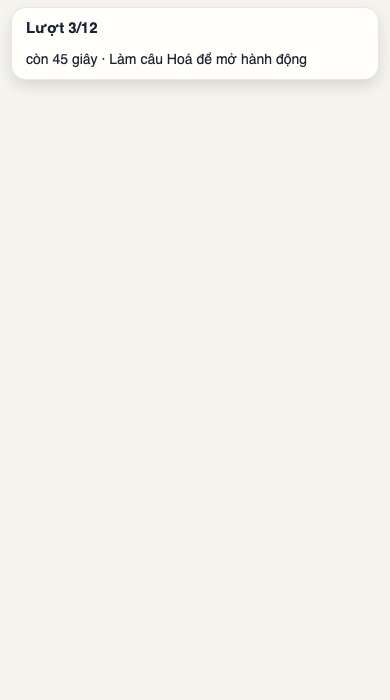
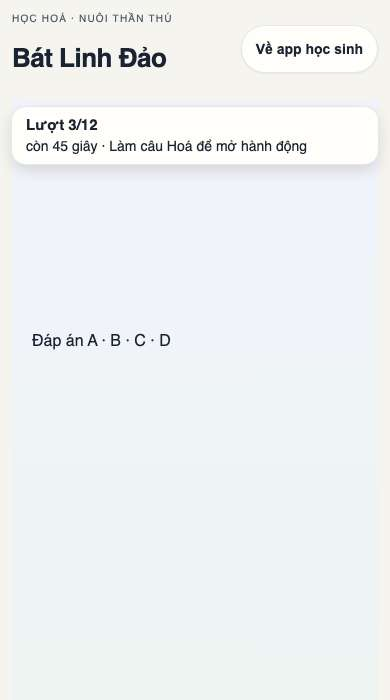
Võ đài HUD · SỬA theo Boss: dòng 'Lượt n/12' dính NGAY DƯỚI đầu trang game cũ (sticky z 40) thay vì chui dưới nó. dau-trang-cao.ts đo chiều cao thật .spirit-header → --spirit-dau-cao (ResizeObserver), top = biến + 8px, z-index vẫn 8, đầu trang không đổi. Bộ thử Chromium dựng đủ vỏ Game.tsx + game.cs

diff --git a/tests/vo-dai-hud-luot-2109.test.ts b/tests/vo-dai-hud-luot-2109.test.ts
@@ -5,10 +5,13 @@ import { afterAll, beforeAll, describe, expect, it } from 'vitest'
 import { chromium, type Browser } from 'playwright'
 import fs from 'node:fs'
 import path from 'node:path'
+import ts from 'typescript'
 
 const doc = (p: string) => fs.readFileSync(path.join(process.cwd(), p), 'utf8')
 const CSS = ['src/styles/tokens.css', 'src/index.css', 'src/game/than-thu-v2/game.css', 'src/game/than-thu-v2/escort.css'].map((f) => doc(f).replace(/@import[^;]*;/g, '')).join('\n')
 const ESCORT = doc('src/game/than-thu-v2/EscortRoom.tsx')
+// Chính tệp đo đầu trang (thuần DOM) chạy trong Chromium, không viết lại bản khác.
+const DTC = `(function(){var exports={};${ts.transpileModule(doc('src/game/than-thu-v2/dau-trang-cao.ts'), { compilerOptions: { module: ts.ModuleKind.CommonJS, target: ts.ScriptTarget.ES2020 } }).outputText};window.DTC=exports})()`
 
 describe('khoá nguồn', () => {
   it('CHỈ dòng "Lượt {room.round}/12" mang lớp ghim escort-hud-luot; dòng đầu phòng KHÔNG ghim; bản đồ KHÔNG ghim', () => {
@@ -18,9 +21,16 @@ describe('khoá nguồn', () => {
     const css = doc('src/game/than-thu-v2/escort.css')
     const hud = /\.escort-hud-luot\{([^}]*)\}/.exec(css)![1]!
     expect(hud).toMatch(/position:sticky/)
-    expect(hud).toMatch(/top:max\(8px,env\(safe-area-inset-top,0px\)\)/)
-    expect(hud).toMatch(/z-index:8/)
+    expect(hud).toMatch(/top:calc\(var\(--spirit-dau-cao,env\(safe-area-inset-top,0px\)\) \+ 8px\)/) // NGAY DƯỚI đầu trang game cũ (Boss 18:0x: top:8px chui dưới đầu trang z-index 40)
+    expect(hud).toMatch(/z-index:8/) // < 40 của đầu trang: KHÔNG được đè nút "Về app học sinh"
     expect(hud).toMatch(/background:var\(--the\)/) // nền ĐẶC
+    // đầu trang game cũ: KHÔNG đổi (nút rào "Về app học sinh")
+    const game = doc('src/game/than-thu-v2/game.css')
+    expect(/\.spirit-game>\.spirit-header\{([^}]*)\}/.exec(game)![1]).toMatch(/position:sticky;top:0;z-index:40/)
+    // dây nối: vỏ Võ đài đo đầu trang thật
+    expect(ESCORT).toMatch(/import \{ganDauTrangCao\} from '\.\/dau-trang-cao'/)
+    expect(ESCORT).toMatch(/useEffect\(\(\)=>ganDauTrangCao\(vo\.current\),\[active\]\)/)
+    expect((ESCORT.match(/ref=\{vo\} className=\{`escort-shell /g) ?? []).length).toBe(1)
     expect(css).not.toMatch(/\.escort-map\{[^}]*position:sticky/)
     expect(css.replace(/\/\*[\s\S]*?\*\//g, '')).not.toMatch(/#[0-9a-fA-F]{3,8}\b[^;}]*(?=[^}]*escort-hud-luot)/)
   })
@@ -38,58 +48,138 @@ afterAll(async () => {
   await browser?.close()
 })
 
-// Vỏ ĐÚNG như StudentPortalScreen (fixed inset-0 · overflow-y auto · animate-google-fade) chứa `.spirit-game` → `.escort-shell` như Game.tsx / EscortRoom.tsx thật.
-const trang = `<!doctype html><html lang="vi"><head><meta name="viewport" content="width=device-width,initial-scale=1"><style>html,body{margin:0}${CSS}</style></head><body>
+// Vỏ ĐÚNG như app thật: StudentPortalScreen (fixed inset-0 · overflow-y auto · animate-google-fade) chứa `section.spirit-game` với ĐẦU TRANG game cũ + thanh mục (Game.tsx:85,90 — tab Võ đài KHÔNG phải vỏ Đảo) rồi `div > .escort-shell` như EscortRoom.tsx; game.css/escort.css THẬT.
+const trang = (gan: boolean) => `<!doctype html><html lang="vi"><head><meta name="viewport" content="width=device-width,initial-scale=1"><style>html,body{margin:0}${CSS}</style></head><body>
 <div id="vo" class="animate-google-fade" style="position:fixed;inset:0;overflow-y:auto;display:flex;flex-direction:column;z-index:50;background:#fff">
- <section class="spirit-game"><div class="escort-shell">
-  <header class="escort-title"><div><small>TỰ LUYỆN VÀ ĐỒNG ĐỘI</small><h2>Hộ tống Linh Tâm</h2></div></header>
-  <div class="escort-hud" id="dau-phong"><strong>2 đấu 2 · Phòng ABC</strong><span>Đội Lam 0 : 1 Đội Hồng</span><button>Tải lại phòng</button><button>Rời phòng</button></div>
-  <div class="escort-hud escort-hud-luot" id="hud" data-vung="hud-luot"><strong>Lượt 3/12</strong><span>còn 45 giây · Làm câu Hoá để mở hành động</span></div>
-  <div class="escort-map" id="ban-do" style="height:250px">bản đồ 7×5</div>
-  <div id="cau" style="height:1600px">câu Hoá dài</div>
-  <div id="cuoi" style="height:80px">hành động</div>
- </div></section></div></body></html>`
+ <section class="spirit-game" aria-label="Thần Thú Hoá Học">
+  <header class="spirit-header"><div><small>HỌC HOÁ · NUÔI THẦN THÚ</small><h1>Bát Linh Đảo</h1></div><button id="ve-app" onclick="window.__bam=(window.__bam||0)+1">Về app học sinh</button></header>
+  <nav class="spirit-nav" aria-label="Mục game"><button>Học</button><button>Đảo</button><button aria-current="page">Võ đài</button><button>Đoàn</button></nav>
+  <div><div class="escort-shell" id="shell">
+   <header class="escort-title"><div><small>TỰ LUYỆN VÀ ĐỒNG ĐỘI</small><h2>Hộ tống Linh Tâm</h2></div></header>
+   <div class="escort-hud" id="dau-phong"><strong>2 đấu 2 · Phòng ABC</strong><span>Đội Lam 0 : 1 Đội Hồng</span><button>Tải lại phòng</button><button>Rời phòng</button></div>
+   <div class="escort-hud escort-hud-luot" id="hud" data-vung="hud-luot"><strong>Lượt 3/12</strong><span>còn 45 giây · Làm câu Hoá để mở hành động</span></div>
+   <div class="escort-map" id="ban-do" style="height:250px">bản đồ 7×5</div>
+   <div id="cau" style="height:1600px">câu Hoá dài</div>
+   <div id="cuoi" style="height:80px">hành động</div>
+  </div></div>
+ </section></div>${gan ? `<script>${DTC};window.__go = window.DTC.ganDauTrangCao(document.getElementById('shell'))</script>` : ''}</body></html>`
 
-for (const [w, h] of [[390, 700], [360, 640]] as const)
-  it(`Chromium thật ${w}×${h}: cuộn xuống câu ⇒ dòng "Lượt n/12 · còn N giây" DÍNH mép trên (8 px), nền đặc; dòng đầu phòng + bản đồ cuộn đi; chưa cuộn thì nằm đúng chỗ trong dòng chảy`, async () => {
+const doTrang = () => {
+  const r = (id: string) => document.getElementById(id)!.getBoundingClientRect()
+  const dau = document.querySelector('.spirit-header')!.getBoundingClientRect()
+  const hud = r('hud')
+  const tam = (b: DOMRect) => document.elementFromPoint(b.left + b.width / 2, b.top + b.height / 2)
+  const nut = r('ve-app')
+  const gaoNhau = hud.left < dau.right && hud.right > dau.left && hud.top < dau.bottom && hud.bottom > dau.top
+  return {
+    dauTop: Math.round(dau.top), dauDay: Math.round(dau.bottom), hudTop: Math.round(hud.top), hudDay: Math.round(hud.bottom),
+    gaoNhau,
+    tamHud: !!tam(hud)?.closest('#hud'), tamNut: tam(nut)?.id === 've-app',
+    cao: getComputedStyle(document.getElementById('shell')!).getPropertyValue('--spirit-dau-cao').trim(),
+    bg: getComputedStyle(document.getElementById('hud')!).backgroundColor,
+    banDoDay: Math.round(r('ban-do').bottom), dauPhongDay: Math.round(r('dau-phong').bottom),
+  }
+}
+
+for (const [w, h] of [[390, 700], [360, 640], [320, 568]] as const)
+  it(`Chromium thật ${w}×${h}, ĐỦ VỎ Game.tsx (đầu trang sticky z 40 + thanh mục): cuộn 900 px ⇒ dòng "Lượt n/12 · còn N giây" dính NGAY DƯỚI đầu trang (cách 8 px), KHÔNG giao nhau, bấm giữa dòng trúng chính nó, nút "Về app học sinh" vẫn bấm được; nền đặc; chưa cuộn thì nằm đúng chỗ trong dòng chảy`, async () => {
     if (!browser) return
     const page = await browser.newPage({ viewport: { width: w, height: h } })
-    await page.setContent(trang)
+    await page.setContent(trang(true))
     await page.waitForTimeout(450)
-    const o = await page.evaluate(() => {
-      const v = document.getElementById('vo')!
-      const r = (id: string) => document.getElementById(id)!.getBoundingClientRect()
-      const dau = { hud: Math.round(r('hud').top), banDo: Math.round(r('ban-do').top) }
-      const bg = getComputedStyle(document.getElementById('hud')!).backgroundColor
-      v.scrollTop = 900
-      const giua = { hud: Math.round(r('hud').top), hudDay: Math.round(r('hud').bottom), banDo: Math.round(r('ban-do').bottom), dauPhong: Math.round(r('dau-phong').bottom) }
-      v.scrollTop = v.scrollHeight
-      const cuoi = { hud: Math.round(r('hud').top), hudDay: Math.round(r('hud').bottom), cuoi: Math.round(r('cuoi').bottom), ih: innerHeight }
-      return { dau, giua, cuoi, bg }
-    })
+    const dau = await page.evaluate(doTrang)
+    await page.evaluate(() => { document.getElementById('vo')!.scrollTop = 900 })
+    const giua = await page.evaluate(doTrang)
+    await page.click('#ve-app')
+    const bam = await page.evaluate(() => (window as unknown as { __bam?: number }).__bam)
+    await page.evaluate(() => { const v = document.getElementById('vo')!; v.scrollTop = v.scrollHeight })
+    const cuoi = await page.evaluate(doTrang)
+    const cuoiNd = await page.evaluate(() => ({ cuoi: Math.round(document.getElementById('cuoi')!.getBoundingClientRect().bottom), ih: innerHeight }))
     await page.close()
-    expect(o.dau.hud).toBeGreaterThan(8) // đầu trang: chưa dính, còn nằm sau tiêu đề + dòng đầu phòng
-    expect(o.dau.banDo).toBeGreaterThan(o.dau.hud) // bản đồ nằm dưới dòng lượt
-    expect(o.giua.hud).toBe(8) // cuộn 900 px (quá bản đồ): dòng lượt dính đúng mép trên
-    expect(o.giua.hudDay).toBeLessThan(80) // dòng thấp (1–2 hàng chữ), không phải khối cao
-    expect(o.giua.banDo).toBeLessThan(0) // bản đồ đã cuộn khỏi màn — KHÔNG ghim
-    expect(o.giua.dauPhong).toBeLessThan(0) // dòng đầu phòng cũng cuộn đi
-    expect(o.cuoi.hud).toBe(8) // cuối trang vẫn dính
-    expect(o.cuoi.cuoi).toBeLessThanOrEqual(o.cuoi.ih) // nội dung cuối vẫn cuộn tới hết
-    const m = /rgba?\((\d+),\s*(\d+),\s*(\d+)(?:,\s*([\d.]+))?\)/.exec(o.bg)!
-    expect(m[4] === undefined || Number(m[4]) === 1, `nền phải đặc: ${o.bg}`).toBe(true)
+    expect(dau.hudTop).toBeGreaterThan(dau.dauDay) // chưa cuộn: nằm sau tiêu đề + dòng đầu phòng
+    expect(giua.cao).toBe(`${giua.dauDay}px`) // biến = chiều cao THẬT của đầu trang (làm tròn lên)
+    expect(giua.dauTop).toBe(0) // đầu trang dính mép trên
+    expect(giua.hudTop).toBe(giua.dauDay + 8) // dòng lượt NGAY DƯỚI đầu trang, cách 8 px
+    expect(giua.gaoNhau).toBe(false)
+    expect(giua.tamHud, 'tâm dòng lượt phải trúng chính dòng lượt (không bị đầu trang đè)').toBe(true)
+    expect(giua.tamNut, 'nút Về app học sinh phải bấm được').toBe(true)
+    expect(bam).toBe(1)
+    expect(giua.hudDay - giua.hudTop).toBeLessThan(80) // dòng thấp
+    expect(giua.banDoDay).toBeLessThan(giua.dauDay) // bản đồ đã cuộn khỏi màn — KHÔNG ghim
+    expect(giua.dauPhongDay).toBeLessThan(giua.dauDay) // dòng đầu phòng cũng cuộn đi
+    expect(cuoi.hudTop).toBe(cuoi.dauDay + 8) // cuối trang vẫn dính dưới đầu trang
+    expect(cuoi.gaoNhau).toBe(false)
+    expect(cuoiNd.cuoi).toBeLessThanOrEqual(cuoiNd.ih) // nội dung cuối vẫn cuộn tới hết
+    const m = /rgba?\((\d+),\s*(\d+),\s*(\d+)(?:,\s*([\d.]+))?\)/.exec(giua.bg)!
+    expect(m[4] === undefined || Number(m[4]) === 1, `nền phải đặc: ${giua.bg}`).toBe(true)
   }, 30000)
 
-it('ĐỐI CHỨNG: bỏ position:sticky thì dòng lượt TRÔI theo nội dung (test này phải thấy lỗi để khoá trên có nghĩa)', async () => {
+it('ĐẦU TRANG ĐỔI CỠ (cửa sổ hẹp lại ⇒ chữ xuống dòng; đổi cỡ chữ đầu trang): biến đo lại theo, dòng lượt vẫn dưới đầu trang, không giao nhau', async () => {
   if (!browser) return
-  const cu = trang.replace('.escort-hud-luot{position:sticky;', '.escort-hud-luot{position:relative;')
-  expect(cu).not.toBe(trang)
+  const page = await browser.newPage({ viewport: { width: 390, height: 700 } })
+  await page.setContent(trang(true))
+  await page.waitForTimeout(300)
+  await page.evaluate(() => { document.getElementById('vo')!.scrollTop = 900 })
+  const a = await page.evaluate(doTrang)
+  // đầu trang cao hơn (tiêu đề dài xuống dòng + cỡ chữ lớn) — không đổi cỡ cửa sổ, chỉ ResizeObserver mới biết
+  await page.evaluate(() => { const h = document.querySelector('.spirit-header h1') as HTMLElement; h.textContent = 'Bát Linh Đảo — Đại Hội Hoá Học Thần Thú Toàn Trường'; h.style.fontSize = '40px' })
+  await page.waitForTimeout(250)
+  const b = await page.evaluate(doTrang)
+  await page.close()
+  expect(b.dauDay).toBeGreaterThan(a.dauDay + 20)
+  expect(b.cao).toBe(`${b.dauDay}px`)
+  expect(b.hudTop).toBe(b.dauDay + 8)
+  expect(b.gaoNhau).toBe(false)
+  expect(b.tamHud).toBe(true)
+}, 30000)
+
+it('GỠ + KHÔNG CÓ ĐẦU TRANG: hàm gỡ trả biến về rỗng; đầu trang biến mất (vỏ Đảo / trang thử) rồi cửa sổ đổi cỡ ⇒ biến được GỠ (CSS lùi về vùng an toàn); truyền rỗng ⇒ không làm gì', async () => {
+  if (!browser) return
+  type W = { DTC: { ganDauTrangCao: (e: HTMLElement | null) => () => void }; __go: () => void }
+  const dat = () => (document.getElementById('shell') as HTMLElement).style.getPropertyValue('--spirit-dau-cao')
+  const page = await browser.newPage({ viewport: { width: 390, height: 700 } })
+  await page.setContent(trang(true))
+  await page.waitForTimeout(200)
+  const co = await page.evaluate(dat)
+  await page.evaluate(() => (window as unknown as W).__go()) // gỡ
+  const sau = await page.evaluate(dat)
+  // ngoài đường gỡ: dựng lại có đầu trang, rồi đầu trang mất + cửa sổ đổi cỡ
+  await page.setContent(trang(true))
+  await page.waitForTimeout(200)
+  const lai = await page.evaluate(dat)
+  await page.evaluate(() => { document.querySelector('.spirit-header')!.remove(); window.dispatchEvent(new Event('resize')) })
+  const khong = await page.evaluate(dat)
+  const nullOk = await page.evaluate(() => typeof (window as unknown as W).DTC.ganDauTrangCao(null))
+  await page.close()
+  expect(co).toMatch(/^\d+px$/)
+  expect(sau).toBe('')
+  expect(lai).toMatch(/^\d+px$/)
+  expect(khong).toBe('')
+  expect(nullOk).toBe('function')
+}, 30000)
+
+it('ĐỐI CHỨNG 1 — lỗi Boss bắt (18:0x): KHÔNG đo đầu trang (top cũ 8 px) thì dòng lượt CHUI DƯỚI đầu trang: giao nhau và tâm dòng trúng đầu trang (test trên phải thấy lỗi này thì khoá mới có nghĩa)', async () => {
+  if (!browser) return
+  const page = await browser.newPage({ viewport: { width: 390, height: 700 } })
+  await page.setContent(trang(false).replace(/top:calc\(var\(--spirit-dau-cao,env\(safe-area-inset-top,0px\)\) \+ 8px\)/, 'top:8px'))
+  await page.waitForTimeout(450)
+  await page.evaluate(() => { document.getElementById('vo')!.scrollTop = 900 })
+  const o = await page.evaluate(doTrang)
+  await page.close()
+  expect(o.hudTop).toBe(8)
+  expect(o.gaoNhau).toBe(true)
+  expect(o.tamHud).toBe(false)
+}, 30000)
+
+it('ĐỐI CHỨNG 2: bỏ position:sticky thì dòng lượt TRÔI theo nội dung', async () => {
+  if (!browser) return
+  const cu = trang(true).replace('.escort-hud-luot{position:sticky;', '.escort-hud-luot{position:relative;')
+  expect(cu).not.toBe(trang(true))
   const page = await browser.newPage({ viewport: { width: 390, height: 700 } })
   await page.setContent(cu)
   await page.waitForTimeout(450)
   const top = await page.evaluate(() => {
-    const v = document.getElementById('vo')!
-    v.scrollTop = 900
+    document.getElementById('vo')!.scrollTop = 900
     return Math.round(document.getElementById('hud')!.getBoundingClientRect().top)
   })
   await page.close()

diff --git a/src/game/than-thu-v2/escort.css b/src/game/than-thu-v2/escort.css
@@ -11,7 +11,7 @@
 /* Shared terrain on both sides: decoration never changes movement rules. */
 .escort-map{gap:9px;padding:18px 14px 24px;border:1px solid #728caf80;border-bottom:10px solid #172a42;background:radial-gradient(ellipse at 50% 40%,#407388,#13273c 78%);box-shadow:0 18px 30px #08111d66,inset 0 2px #bddef733;isolation:isolate}.escort-cell>.escort-tile{border-radius:12px;border:1px solid #d0ecff40;border-bottom:5px solid #173348;box-shadow:0 5px 0 #091a2f66,inset 0 2px #ffffff30;transform:perspective(500px) rotateX(7deg);transition:filter .18s,box-shadow .18s}.escort-cell.terrain-forest>.escort-tile{background:linear-gradient(145deg,#538361,#244c44);border-bottom-color:#18362f}.escort-cell.terrain-ocean>.escort-tile{background:linear-gradient(145deg,#2d8196,#24506f);border-bottom-color:#153b55}.escort-cell.terrain-dune>.escort-tile{background:linear-gradient(145deg,#cba775,#9a774d);border-bottom-color:#624e37}.escort-cell.terrain-tower>.escort-tile{background:radial-gradient(ellipse,#7287ab,#384b6c);border-bottom-color:#28364f}.escort-terrain-art{position:absolute;inset:0;overflow:hidden;opacity:.65;border-radius:10px;pointer-events:none}.escort-terrain-art svg{width:100%;height:100%}.terrain-ocean .escort-terrain-art svg{animation:escort-sea 4s ease-in-out infinite alternate}.escort-center-tower{position:absolute;width:78%;height:115%;bottom:9%;left:11%;filter:drop-shadow(0 8px 6px #06122280);pointer-events:none;z-index:2}.escort-center-tower svg{width:100%;height:100%}.board-heart.on-tower{width:59%;left:20%;top:-43%;z-index:5;filter:drop-shadow(0 0 15px #ffd3f4)}.escort-piece{z-index:6;filter:drop-shadow(0 7px 4px #0a172755)}.escort-tile.tile-selected{filter:brightness(1.15);box-shadow:0 0 20px #facc1566!important}.escort-cell>.escort-tile.base-blue{border-left:3px solid #7dc8ff}.escort-cell>.escort-tile.base-pink{border-right:3px solid #ffabd5}.escort-effects{z-index:9}.escort-cell.cell-active{z-index:30}.escort-speech{z-index:12}@keyframes escort-sea{to{transform:translateX(4px) translateY(-2px);opacity:.65}}@media(max-width:600px){.escort-map{gap:5px;padding:12px 7px 16px}.escort-cell>.escort-tile{border-radius:7px;border-bottom-width:3px}.escort-terrain-art{border-radius:6px}}@media(prefers-reduced-motion:reduce){.terrain-ocean .escort-terrain-art svg{animation:none}}
 .spirit-game .escort-cell-menu .escort-action-icon{display:grid;place-items:center;width:46px;height:46px;padding:0;border-radius:14px;background:#8abcff22;color:#c1e2ff;border:1px solid #b8d8ff50}.spirit-game .escort-cell-menu .action-guard{color:#a1f0cf;background:#4dd5a322}.spirit-game .escort-cell-menu .action-blast{color:#ffdb85;background:#efbc3c22}.spirit-game .escort-cell-menu .action-skill{color:#dbbaff;background:#ad75ed22}.spirit-game .escort-cell-menu .escort-menu-close{color:#e2edff;padding:5px;width:30px;min-width:30px;min-height:30px;height:30px;flex-shrink:0;border:0}.spirit-game .escort-cell-menu .escort-confirm-action{background:#a8d8ff;color:#132940}.escort-cell-menu svg{flex-shrink:0;stroke:currentColor}
-/* VÕ ĐÀI · GHIM dòng "Lượt n/12 · còn N giây" (đề xuất của tôi ở sổ 21/09, Boss xếp việc kế): KHÔNG ghim cả bản đồ 7×5 (~250 px, chiếm 1/3 màn) — chỉ dòng giờ + lượt dính mép trên vùng cuộn của vỏ sheet, nền ĐẶC để câu / bản đồ cuộn qua không lộ chữ. Không tổ tiên overflow:hidden (test khoá). */
-.escort-hud-luot{position:sticky;top:max(8px,env(safe-area-inset-top,0px));z-index:8;padding:10px 14px;margin:0 0 8px;border-radius:14px;background:var(--the);color:var(--muc);box-shadow:0 0 0 1px var(--vien),0 6px 16px rgba(0,0,0,.14);font-size:14px;line-height:1.35}
+/* VÕ ĐÀI · GHIM dòng "Lượt n/12 · còn N giây" (đề xuất của tôi ở sổ 21/09, Boss xếp việc kế): KHÔNG ghim cả bản đồ 7×5 (~250 px, chiếm 1/3 màn) — chỉ dòng giờ + lượt dính NGAY DƯỚI đầu trang game cũ (sticky top:0 z-index:40 — biến --spirit-dau-cao do dau-trang-cao.ts đo thật; không có đầu trang thì dính dưới vùng an toàn), nền ĐẶC để câu / bản đồ cuộn qua không lộ chữ. Không tổ tiên overflow:hidden (test khoá). */
+.escort-hud-luot{position:sticky;top:calc(var(--spirit-dau-cao,env(safe-area-inset-top,0px)) + 8px);z-index:8;gap:2px 12px;padding:8px 14px;margin:0 0 8px;border-radius:14px;background:var(--the);color:var(--muc);box-shadow:0 0 0 1px var(--vien),0 6px 16px rgba(0,0,0,.14);font-size:14px;line-height:1.35}
 .escort-hud-luot strong{font-size:15px;font-variant-numeric:tabular-nums}
 .escort-hud-luot span{font-variant-numeric:tabular-nums;min-width:0;overflow-wrap:anywhere}

diff --git a/src/game/than-thu-v2/EscortRoom.tsx b/src/game/than-thu-v2/EscortRoom.tsx
@@ -2,6 +2,7 @@ import {MoveUpRight,Shield,Zap,Sparkles,X,Check,BookOpen,Swords,ChevronUp,Chevro
 import EscortQuestion from './EscortQuestion'
 import LinhTam from './LinhTam'
 import {useCallback,useEffect,useRef,useState} from 'react'
+import {ganDauTrangCao} from './dau-trang-cao'
 import SpiritArt from './SpiritArt'
 import EscortGuide from './EscortGuide'
 import Spirit2D from './Spirit2D'
@@ -12,6 +13,8 @@ import {unlockBattleAudio,playBattleSound,battleMuted,setBattleMuted} from './ba
 import {evolutionStage} from './evolution'
 type View=Omit<Escort,'owner'|'players'>&{id:string;revision:number;owner:boolean;players:(Escort['players'][number]&{self:boolean;ready:boolean;alias:string})[]}
 export default function EscortRoom({call,active,storageKey}:{call:(action:string,data:Record<string,unknown>)=>Promise<unknown>;active:boolean;storageKey:string}){
+ const vo=useRef<HTMLDivElement>(null)
+ useEffect(()=>ganDauTrangCao(vo.current),[active]) // dòng lượt dính NGAY DƯỚI đầu trang game cũ (đo thật)
  const [pvpMode,setPvpMode]=useState<'duel'|'pvp'>('pvp')
  const [actionInfo,setActionInfo]=useState<Command['type']>()
  const [answerState,setAnswerState]=useState<{round:number;room:string;energy:number}>()
@@ -49,7 +52,7 @@ export default function EscortRoom({call,active,storageKey}:{call:(action:string
  const actionItems=[{type:'move' as const,Icon:MoveUpRight,label:'Di chuyển',description:'Đi tới ô trống liền kề đã chọn. Không tốn năng lượng.'},{type:'guard' as const,Icon:Shield,label:'Dựng khiên',description:'Đứng tại chỗ: đúng tự làm nhận 20 giáp; sai hoặc có trợ giúp nhận 5 giáp.'},{type:'blast' as const,Icon:Zap,label:'Tung chưởng',description:'Tấn công đối thủ được chọn trong phạm vi 3 ô.'},{type:'skill' as const,Icon:Sparkles,label:SKILLS[me?.pet??0],description:'Thi triển kỹ năng riêng của thần thú tại mục tiêu phù hợp.'}]
  const act=(type:Command['type'])=>{if(valid(type))void go('escort-act',{command:{type,...selected,target}})}
  const remaining=room?Math.max(0,Math.ceil((Math.min(room.roundAt+60000,room.deadline)-now)/1000)):0
- return <div className={`escort-shell ${!room?'escort-lobby':''}`}><header className="escort-title"><div><small>{room?.mode==='solo'?'TỰ LUYỆN · ĐẤU VỚI QUÁI TRÙM':'TỰ LUYỆN VÀ ĐỒNG ĐỘI'}</small><h2>Hộ Tống Linh Tâm</h2><p>Hiểu bài để tiếp sức. Phối hợp để đưa Linh Tâm về nhà.</p></div><LinhTam className="escort-heart"/></header>
+ return <div ref={vo} className={`escort-shell ${!room?'escort-lobby':''}`}><header className="escort-title"><div><small>{room?.mode==='solo'?'TỰ LUYỆN · ĐẤU VỚI QUÁI TRÙM':'TỰ LUYỆN VÀ ĐỒNG ĐỘI'}</small><h2>Hộ Tống Linh Tâm</h2><p>Hiểu bài để tiếp sức. Phối hợp để đưa Linh Tâm về nhà.</p></div><LinhTam className="escort-heart"/></header>
  <div style={{display:'flex',alignItems:'center',gap:8,flexWrap:'wrap',margin:'8px 0 12px 0'}}>
    <button aria-pressed={!muted} onClick={()=>{setBattleMuted(!muted);setMuted(!muted)}}>{muted?'Bật âm thanh võ đài':'Tắt âm thanh võ đài'}</button>
    {!room&&<button type="button" onClick={()=>setShowGuide(v=>!v)} style={{padding:'7px 14px',borderRadius:12,border:'1px solid var(--vien)',background:showGuide?'var(--xanh-nen)':'var(--the)',color:showGuide?'var(--xanh)':'var(--muc)',fontWeight:700,fontSize:13,cursor:'pointer',display:'inline-flex',alignItems:'center',gap:6}}><BookOpen size={16} aria-hidden="true"/> Hướng dẫn chơi {showGuide?<ChevronUp size={14} aria-hidden="true"/>:<ChevronDown size={14} aria-hidden="true"/>}</button>}

diff --git a/src/game/than-thu-v2/dau-trang-cao.ts b/src/game/than-thu-v2/dau-trang-cao.ts
@@ -1,0 +1,33 @@
+// Đầu trang game cũ (`.spirit-game > .spirit-header`, sticky top:0, z-index:40, có nút "Về app học sinh") luôn dính mép trên vùng cuộn ⇒ mọi thứ khác muốn DÍNH mép trên (dòng "Lượt n/12" của Võ đài) phải dính NGAY DƯỚI nó, không thì chui xuống dưới (z-index thấp hơn). Chiều cao đầu trang không cố định (chữ xuống dòng ở màn hẹp, vùng an toàn, cỡ chữ hệ thống) ⇒ ĐO THẬT rồi đặt vào biến CSS `--spirit-dau-cao` (px) trên phần tử `el`; escort.css đọc: top = biến + 8 px. Không có đầu trang (vỏ Đảo mới, trang thử) ⇒ gỡ biến, CSS dùng vùng an toàn. Thuần DOM, không React ⇒ bộ thử Chromium chạy đúng tệp này.
+const dauTrangCua = (el: Element): Element | null => {
+  const game = el.closest('.spirit-game')
+  return game ? ([...game.children].find((c) => c.classList.contains('spirit-header')) ?? null) : null
+}
+
+/** Chiều cao thật (px, làm tròn LÊN để không hở 1 px) của đầu trang chứa `el`; không có đầu trang hoặc chưa dựng hình (cao 0) ⇒ null. */
+export function docDauTrangCao(el: Element | null): number | null {
+  const h = el ? dauTrangCua(el) : null
+  if (!h) return null
+  const c = h.getBoundingClientRect().height
+  return c > 0 ? Math.ceil(c) : null
+}
+
+/** Đặt `--spirit-dau-cao` trên `el` ngay, rồi đặt lại mỗi khi đầu trang đổi cỡ (ResizeObserver) hoặc cửa sổ đổi cỡ. Trả hàm gỡ. `el` rỗng ⇒ không làm gì. */
+export function ganDauTrangCao(el: HTMLElement | null): () => void {
+  if (!el) return () => {}
+  const dat = () => {
+    const c = docDauTrangCao(el)
+    if (c === null) el.style.removeProperty('--spirit-dau-cao')
+    else el.style.setProperty('--spirit-dau-cao', `${c}px`)
+  }
+  dat()
+  const h = dauTrangCua(el)
+  const ro = h && typeof ResizeObserver !== 'undefined' ? new ResizeObserver(dat) : null
+  if (h) ro?.observe(h)
+  window.addEventListener('resize', dat)
+  return () => {
+    ro?.disconnect()
+    window.removeEventListener('resize', dat)
+    el.style.removeProperty('--spirit-dau-cao')
+  }
+}
